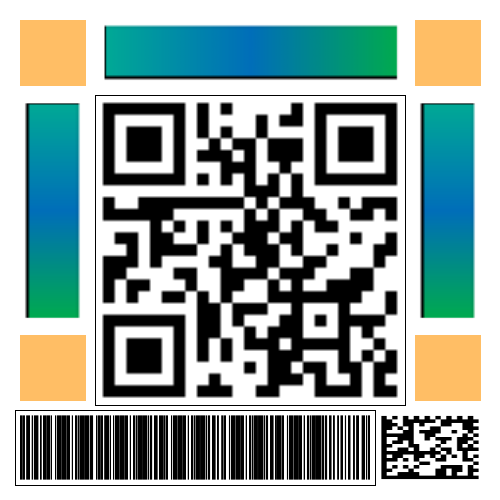
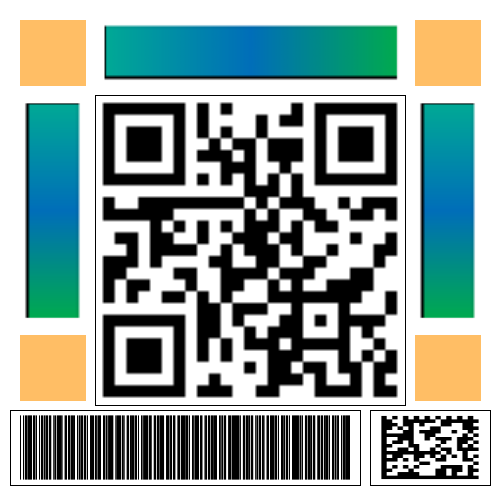
some bugs

Changed region(s): [[0.03, 0.81, 0.78, 0.96]]

diff --git a/OpenCV/ImageCombination/batchGenerate/place.py b/OpenCV/ImageCombination/batchGenerate/place.py
@@ -24,6 +24,9 @@ for i in range(int(sys.argv[1])):
     imgCanvas = np.zeros([Height,Width,3],dtype=np.uint8)
     imgCanvas.fill(255)
 
+    #Rectangle for the code
+    # cv2.rectangle(imgCanvas, (int(0), int(0)), (int(Width), int(Height)), (0,0,255),5)
+
     #Rectangle for QR code
     cv2.rectangle(imgCanvas,(int(0.19*Width),int(.19*Height)),(int(0.81*Width),int(0.81*Height)),(0,0,0),1)
     #Place image at these coordinates
@@ -31,13 +34,13 @@ for i in range(int(sys.argv[1])):
     imgCanvas[int(0.2*Width):int(.8*Width),int(0.2*Height):int(0.8*Height)] = imgQrResize
 
     #Rectangle for Bar code
-    cv2.rectangle(imgCanvas,(int(0.03*Width),int(.82*Height)),(int(0.75*Width),int(0.97*Height)),(0,0,0),1)
+    cv2.rectangle(imgCanvas,(int(0.02*Width),int(.82*Height)),(int(0.72*Width),int(0.97*Height)),(0,0,0),1)
     #Place image at these coordinates
-    imgBarResize = cv2.resize(imgBc,(int(0.74*Width)-int(0.04*Width),int(0.96*Height)-int(0.83*Height)))
-    imgCanvas[int(0.83*Height):int(0.96*Height),int(0.04*Width):int(0.74*Width)] = imgBarResize
+    imgBarResize = cv2.resize(imgBc,(int(0.70*Width)-int(0.04*Width),int(0.96*Height)-int(0.83*Height)))
+    imgCanvas[int(0.83*Height):int(0.96*Height),int(0.04*Width):int(0.70*Width)] = imgBarResize
 
     #Rectangle for DataMatrix code
-    # cv2.rectangle(imgCanvas,(int(0.76*Width),int(.83*Height)),(int(0.96*Width),int(0.96*Height)),(0,0,0),1)
+    cv2.rectangle(imgCanvas,(int(0.74*Width),int(.82*Height)),(int(0.98*Width),int(0.97*Height)),(0,0,0),1)
     #Place image at these coordinates
     imgDmResize = cv2.resize(imgDm,(int(0.96*Width)-int(0.76*Width),int(0.96*Height)-int(0.83*Height)))
     imgCanvas[int(0.83*Height):int(0.96*Height),int(0.76*Width):int(0.96*Width)] = imgDmResize

diff --git a/OpenCV/ImageCombination/batchGenerate/barGen.py b/OpenCV/ImageCombination/batchGenerate/barGen.py
@@ -3,7 +3,7 @@ import os
 import shutil
 import treepoem
 def barGen(i):
-    image = treepoem.generate_barcode(barcode_type='code128', data="8351:5684:1254:1234:1245:"+str(i).zfill(4))
+    image = treepoem.generate_barcode(barcode_type='code39', data="83515684125412341245"+str(i).zfill(4))
     filename = "barcode"+str(i).zfill(4)+".png"
     image.save("bar/"+filename)
     #shutil.move(filename, "batch/images/"+filename)
